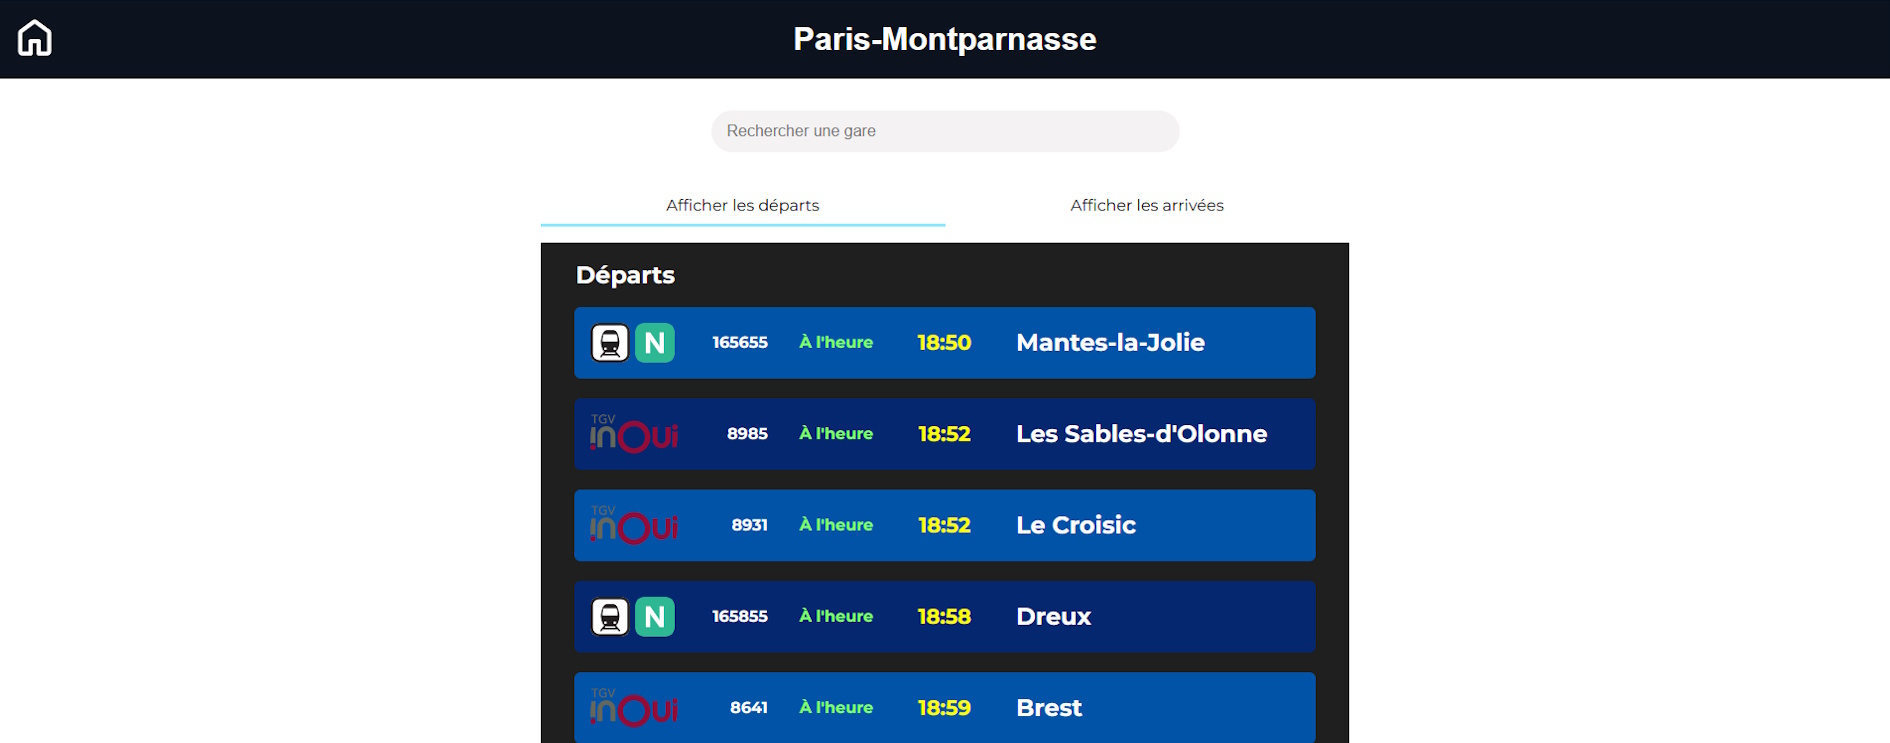
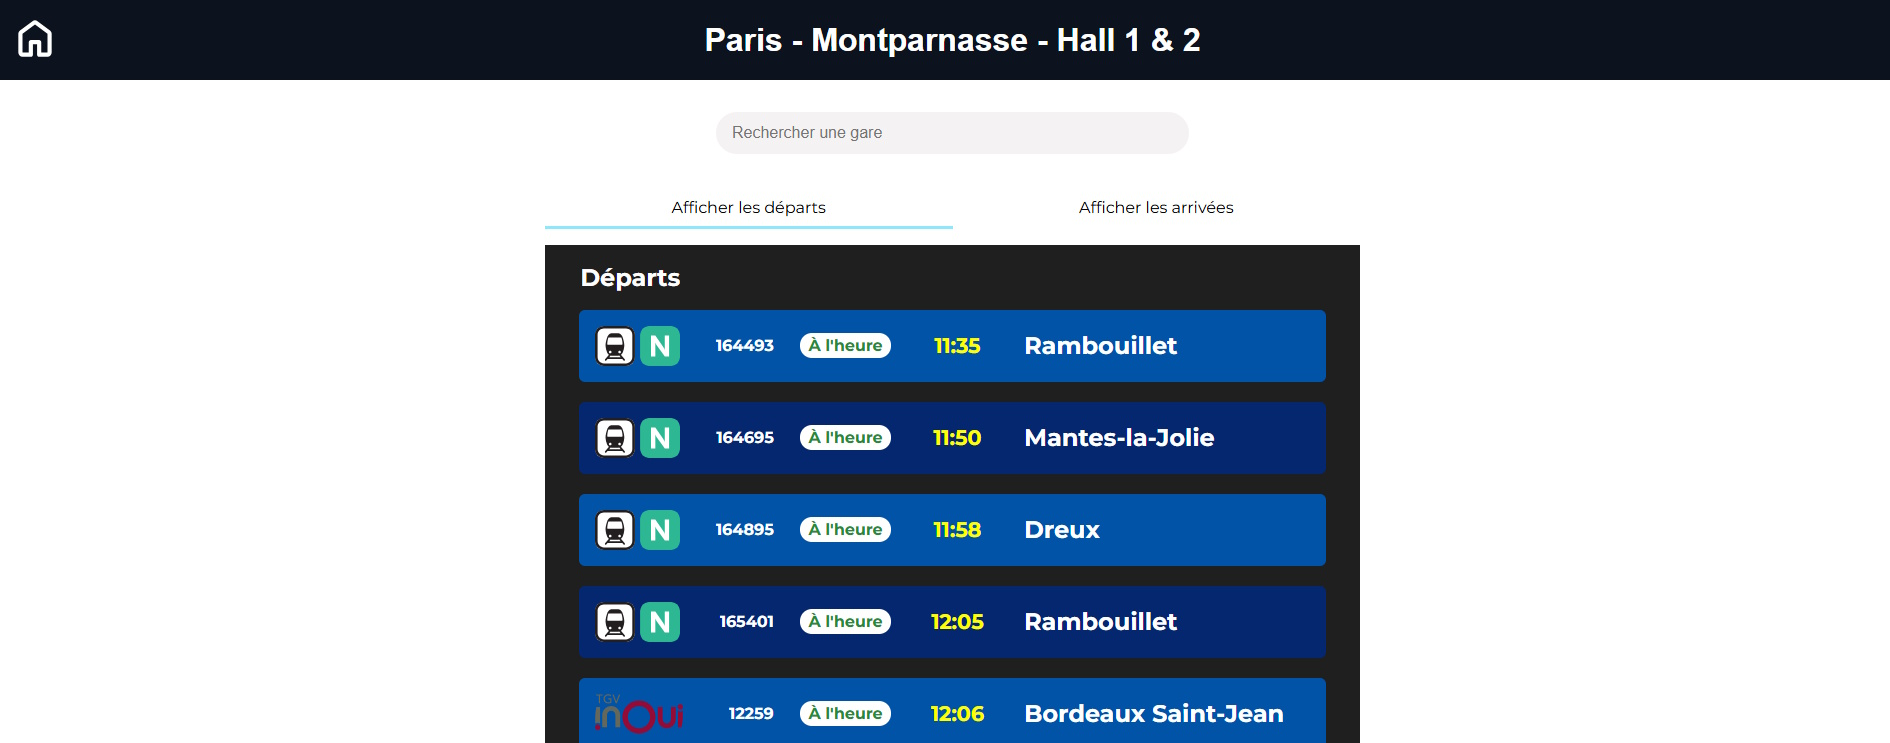
MAJ description projet

diff --git a/index.js b/index.js
@@ -5,40 +5,16 @@ document.addEventListener("DOMContentLoaded", function () {
       title: "Application SNCF",
       image: "project_sncf-app.jpg",
       text: `<p>Application web qui permet de consulter les horaires en gare grâce à l'API SNCF. Utilisation
-            de <strong>HTML</strong>, <strong>CSS</strong> et <strong>JavaScript</strong></p>
+            de <strong>React</strong> et mise en place d'un serveur proxy pour les requêtes API.
         <p>On peut rechercher une gare ou en sélectionner une afin d'afficher les départs ou les
             arrivées des trains.</p>`,
       link: "https://github.com/baky91/sncf-app",
-    },
-    {
-      title: "Jeu vidéo",
-      image: "project_s102.jpg",
-      text: `<p>Réalisation d'un jeu-vidéo 2D en <strong>C++</strong> avec la bibliothèque
-            <strong>SDL2</strong>, dans le cadre d'un projet universitaire.
-        </p>
-        <p>Le but du jeu est de récupérer tous les bonus du niveau tout en évitant les ennemis qui ont
-            des mouvements aléatoires.</p>`,
-      link: "https://github.com/baky91/S102-Project",
     },
     {
       title: "Développement d'une application",
       image: "projet_transverse.jpg",
       text: `<p><strong>Projet SAE1256</strong> : Application avec une interface graphique permettant de gérer les étudiants et les maisons de la Cité Internationale Universitaire de Paris (CIUP).</p>
         <p>Utilisation de <strong>Java Swing</strong> en suivant le pattern <strong>MVC (Modèle-Vue-Controleur)</strong>.</p>`,
-      link: "#",
-    },
-    {
-      title: "CWAD",
-      image: "project_cwad.jpg",
-      text: `<p>Création d'un site web en <strong>HTML</strong> et <strong>CSS</strong> pour une activité de
-        divertissement dans le cadre d'un projet universitaire.</p>`,
-      link: "https://github.com/baky91/cwad",
-    },
-    {
-      title: "Création d'une base de données",
-      image: "project_s104.jpg",
-      text: `<p>Création d'une base de données complète sur une entreprise d'électricité.</p>
-        <p>Réalisation du <strong>modèle conceptuel de données (MCD)</strong>, du <strong>schéma relationnel (SR)</strong> et de requêtes <strong>SQL</strong> pour gérer les clients, chantiers et interventions.</p>`,
       link: "#",
     },
     {
